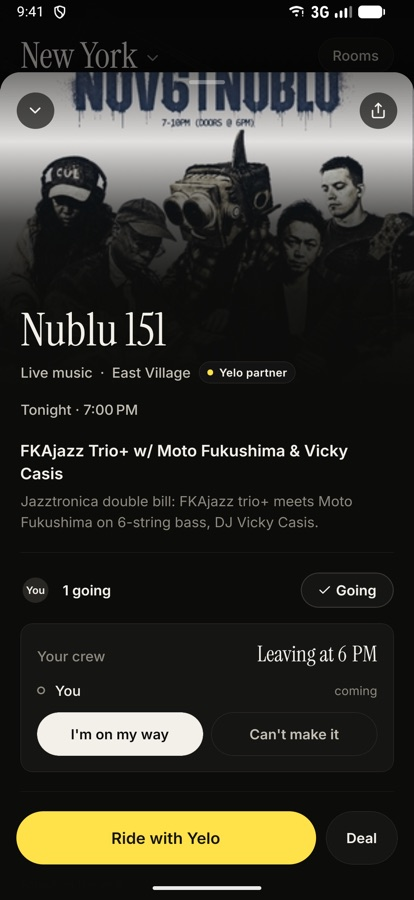
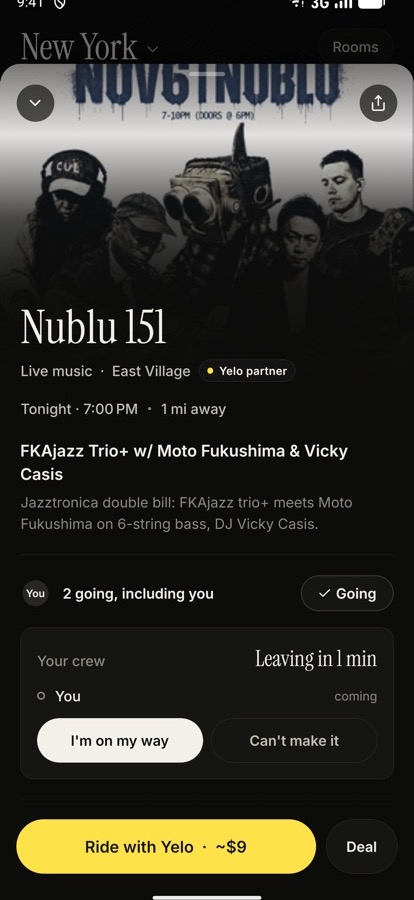
Site: on phones the app screens are a swipeable row of large shots; 'Ride there' shows the current spot sheet with the ride price

diff --git a/site/index.html b/site/index.html
@@ -111,6 +111,14 @@
     .hero { grid-template-columns: minmax(0, 1fr); gap: 32px; margin-top: 32px; }
     .screens { grid-template-columns: repeat(2, minmax(0, 1fr)); }
   }
+  /* Phones: a swipeable row of large shots instead of four thumbnails too small to read. */
+  @media (max-width: 560px) {
+    .screens { grid-template-columns: none; grid-auto-flow: column; grid-auto-columns: 72%; overflow-x: auto;
+      scroll-snap-type: x mandatory; margin-inline: -16px; padding-inline: 16px; scroll-padding-inline: 16px;
+      scrollbar-width: none; overscroll-behavior-x: contain; }
+    .screens::-webkit-scrollbar { display: none; }
+    .screens figure { scroll-snap-align: start; }
+  }
 </style>
 </head>
 <body>
@@ -159,7 +167,7 @@
     <div class="screens">
       <figure><img src="shot-map-la.jpg" alt="Los Angeles tonight: numbered bubbles across the city, a bubble ringed for a Yelo partner, and a card for Gold-Diggers at 10 PM" loading="lazy" width="414" height="900">
         <figcaption><b>One map for the night</b>New York and Los Angeles, refreshed every few minutes and grouped so the map stays readable.</figcaption></figure>
-      <figure><img src="shot-spot.jpg" alt="Spot details for Nublu with a photo header, time, address, who is going, and Ride there" loading="lazy" width="414" height="900">
+      <figure><img src="shot-spot.jpg" alt="Nublu 151 tonight at 7 PM, 1 mile away: 2 going including you, your crew leaving in a minute, and Ride with Yelo for about $9" loading="lazy" width="414" height="900">
         <figcaption><b>Ride there</b>Each spot shows the time, the address, the price, who's going, and a ride button.</figcaption></figure>
       <figure><img src="shot-crew.jpg" alt="Your crews tonight: Nublu 151 leaving now and Gold-Diggers leaving at 11:30 PM, each with who's coming, an invite button, Can't make it and I'm on my way" loading="lazy" width="414" height="900">
         <figcaption><b>Head out together</b>Start a crew, send the link, and see who's coming and who's on the way.</figcaption></figure>
